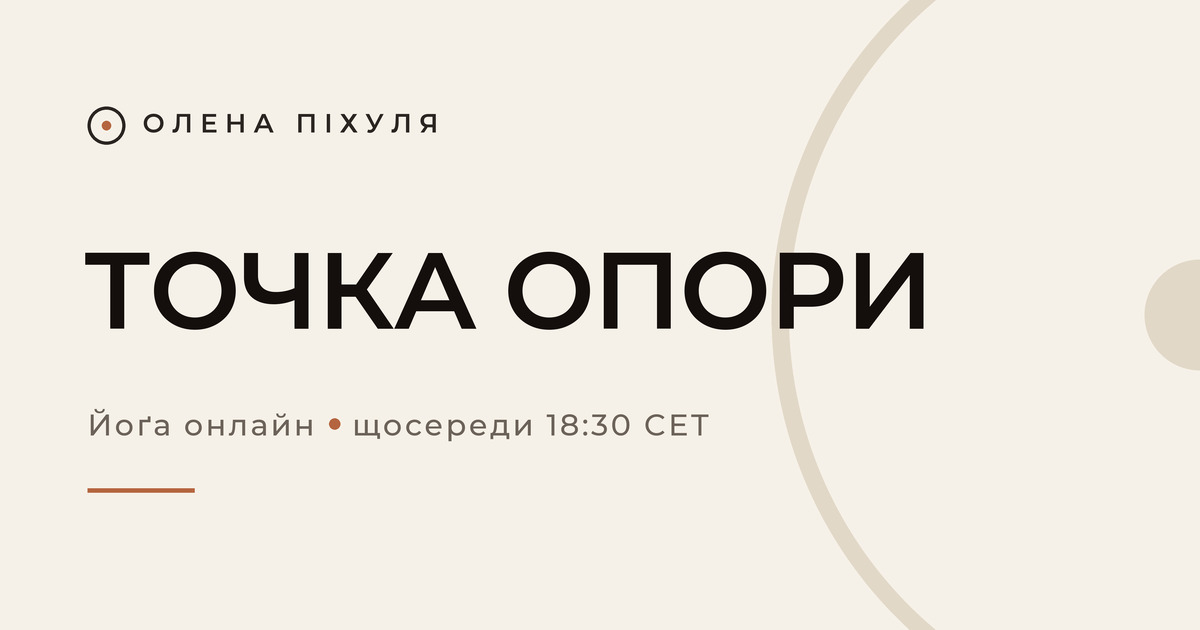
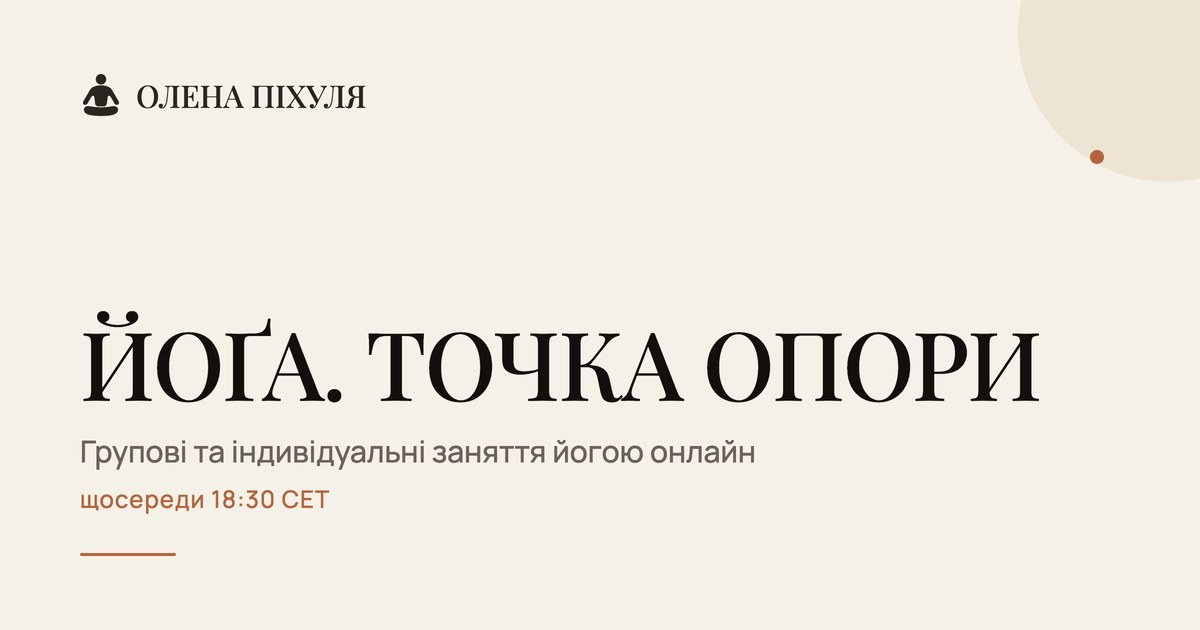
feat: rebuild the share card, drop the phone header's language toggle
Share card
- The УФЙ mark takes the place of the circle-and-dot before the wordmark, the
  headline reads as the banner does — "Йоґа. Точка опори" — and a smaller line
  names the formats: групові та індивідуальні заняття йогою онлайн, щосереди
  18:30 CET.
- Set in Playfair Display and Manrope, so a link preview and the page read as
  one thing. Rendered at 2x and downscaled: text on a 1200x630 card is soft
  drawn at final size.
- The old sweeping arc cut straight through the headline once it ran the full
  width, so the accent retreated to the corner.
- og:image and twitter:image carry ?v=2. The platforms key their cache on the
  URL and would go on serving the previous card for weeks.

Header on phones
- The language switch lives in the burger menu only. Three controls were
  sharing that narrow row, and in the menu the switch gets a tap target worth
  the name.

Claude-Session: https://claude.ai/code/session_014HZychD2ZoM2jEWvcuJBuV

diff --git a/site/index.html b/site/index.html
@@ -22,15 +22,15 @@
 <meta property="og:url" content="https://olenapikhulia.dev.coventpro.ai/" />
 <meta property="og:title" content="Олена Піхуля — йоґа онлайн" />
 <meta property="og:description" content="Навчаю йозі як мистецтву бачити красу світу та жити яскравим свідомим життям. Групові заняття онлайн щосереди та індивідуальні практики." />
-<meta property="og:image" content="https://olenapikhulia.dev.coventpro.ai/assets/og.jpg" />
+<meta property="og:image" content="https://olenapikhulia.dev.coventpro.ai/assets/og.jpg?v=2" />
 <meta property="og:image:type" content="image/jpeg" />
 <meta property="og:image:width" content="1200" />
 <meta property="og:image:height" content="630" />
-<meta property="og:image:alt" content="Олена Піхуля — точка опори. Йоґа онлайн, щосереди 18:30 CET." />
+<meta property="og:image:alt" content="Олена Піхуля — йоґа. Точка опори. Групові та індивідуальні заняття онлайн, щосереди 18:30 CET." />
 <meta name="twitter:card" content="summary_large_image" />
 <meta name="twitter:title" content="Олена Піхуля — йоґа онлайн" />
 <meta name="twitter:description" content="Групові заняття онлайн щосереди та індивідуальні практики." />
-<meta name="twitter:image" content="https://olenapikhulia.dev.coventpro.ai/assets/og.jpg" />
+<meta name="twitter:image" content="https://olenapikhulia.dev.coventpro.ai/assets/og.jpg?v=2" />
 
 <link rel="preconnect" href="https://fonts.googleapis.com" />
 <link rel="preconnect" href="https://fonts.gstatic.com" crossorigin />
@@ -329,8 +329,8 @@ main{width:100%;overflow-x:clip;padding:var(--page-inset)}
   max-width:9.5rem;
 }
 
-/* on phones the wordmark, the language toggle and the burger have to share
-   one narrow row */
+/* on phones the bar carries the mark, the wordmark and the burger — nothing
+   else fits that row */
 @media (max-width:640px){
   .hdr-bar{gap:0.5rem}
   /* sized off the English wordmark, which is the longer of the two */
@@ -338,9 +338,9 @@ main{width:100%;overflow-x:clip;padding:var(--page-inset)}
   /* no room for the credential line next to the mark — the mark carries it */
   .hdr-role{display:none}
   .ufy-mark{width:1.5rem;height:1.5rem}
-  .hdr-right{gap:0.625rem}
-  .site-header .lang{font-size:0.8125rem}
-  .site-header .lang button{padding:0.25rem 0.375rem}
+  /* the language switch lives in the burger menu on phones, where it has room
+     to be a proper tap target */
+  .site-header .lang{display:none}
 }
 .brand-mark{width:1.25rem;height:1.25rem;flex:none}
 
